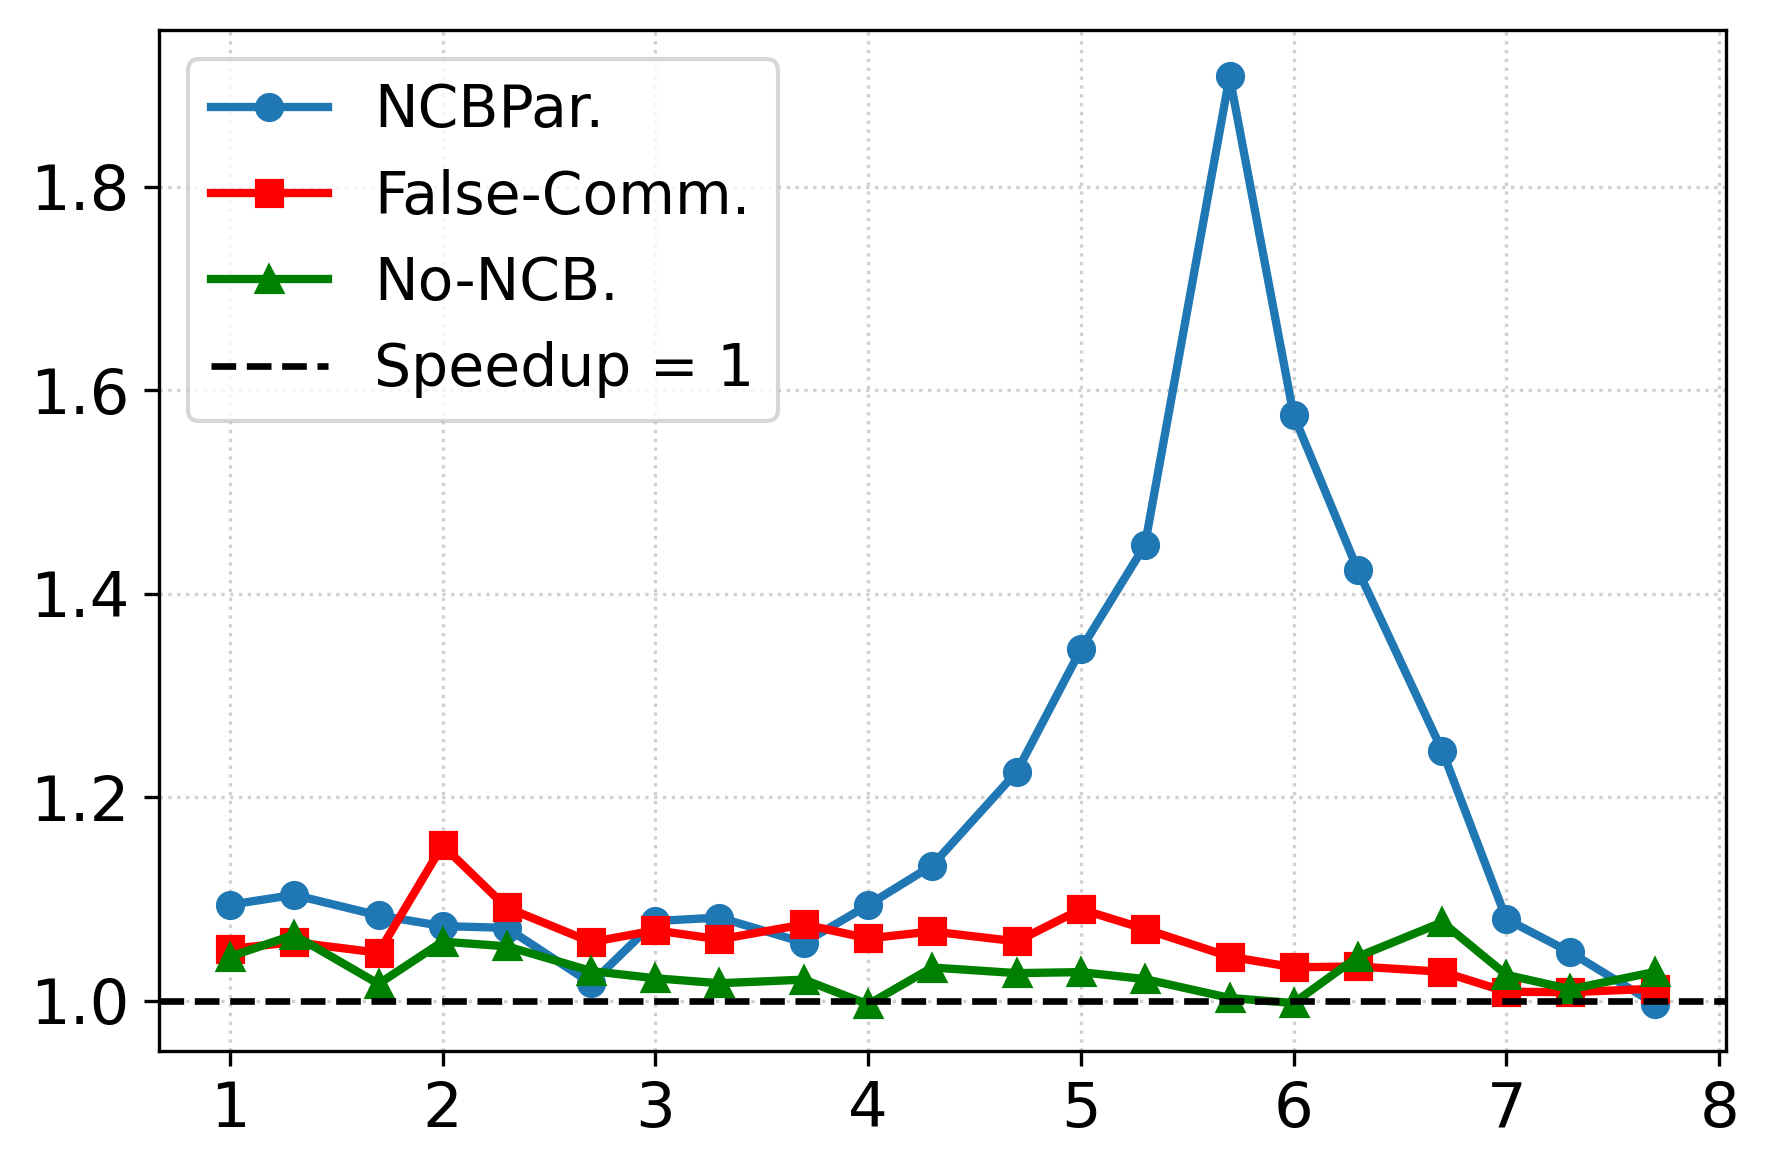
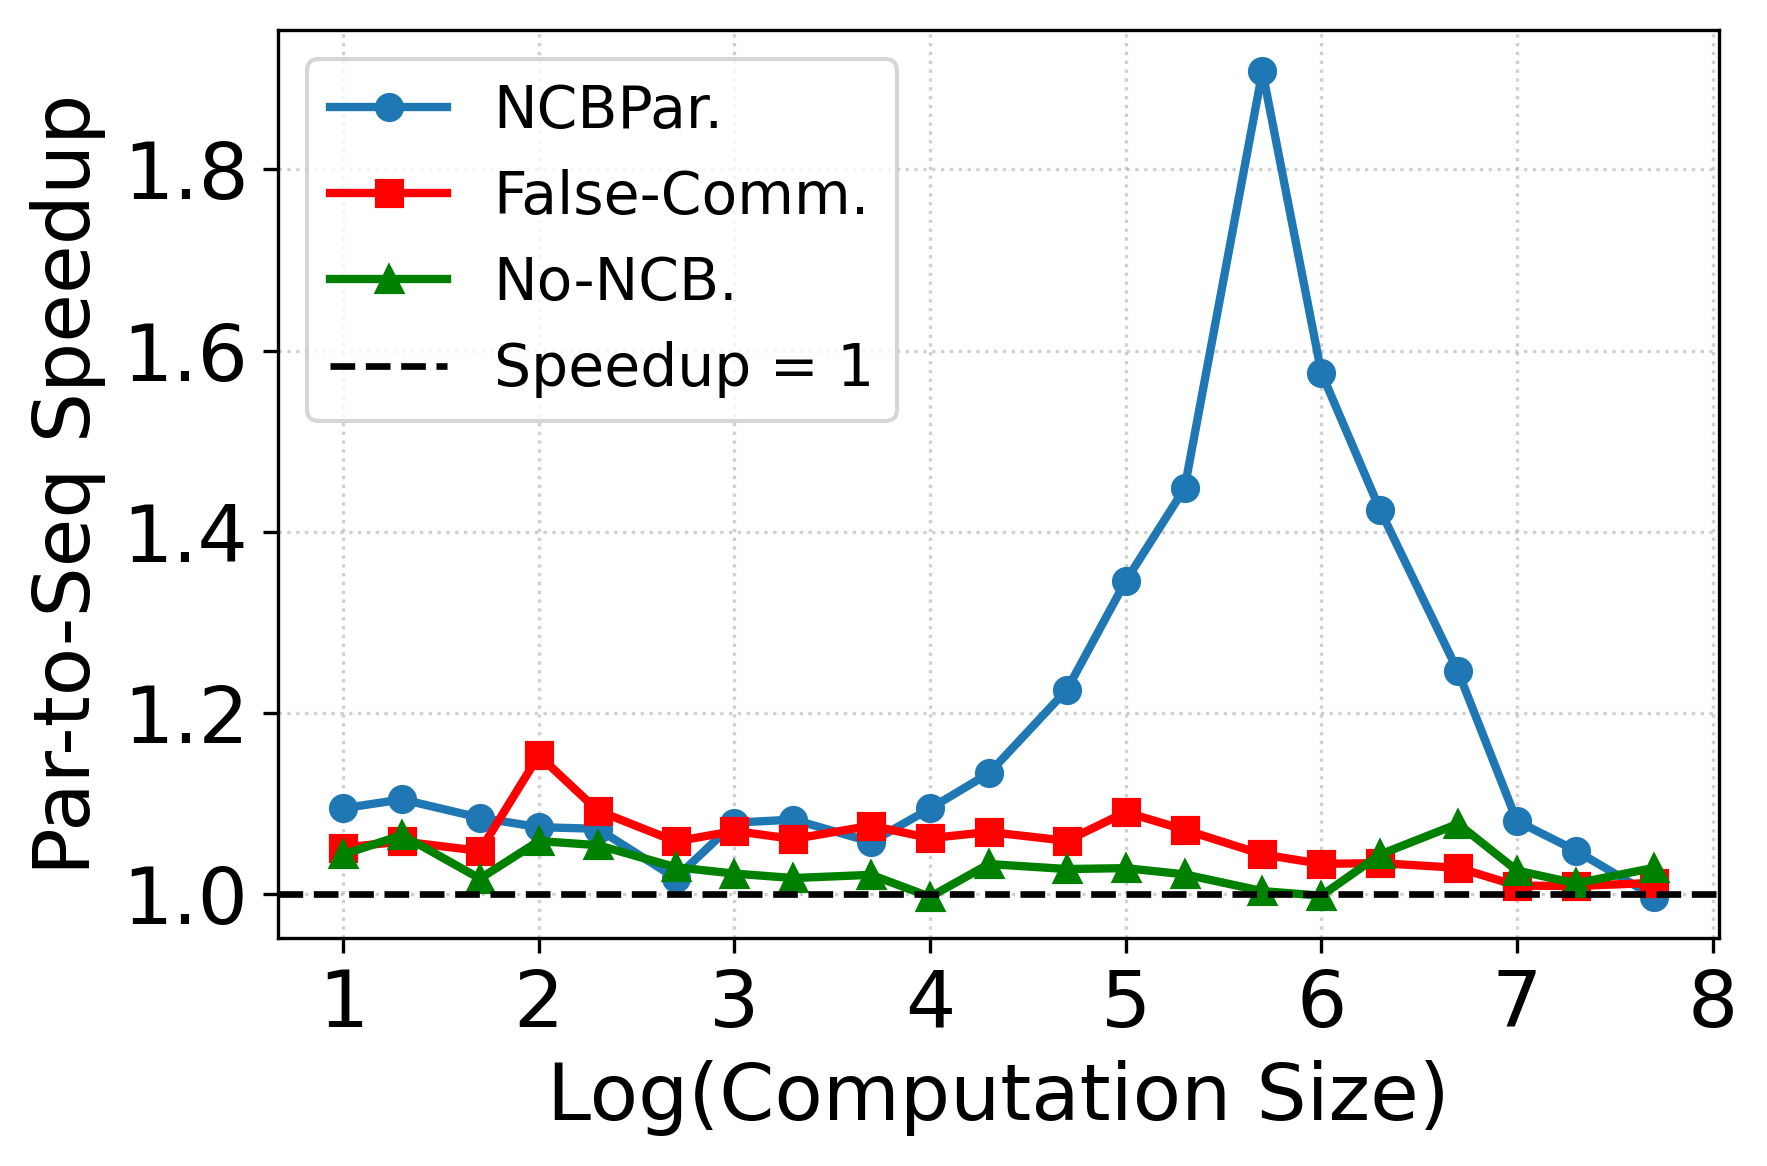
update plots

diff --git a/reports/speedup_plot_compare.py b/reports/speedup_plot_compare.py
@@ -31,11 +31,11 @@ def create_comparison_plot(data_commute, data_no_commute, data_no_NB, benchmark,
     plt.axhline(y=1, color='black', linestyle='--', 
                 label='Speedup = 1', linewidth=1.6)
 
-    # plt.xlabel('Log(Computation Size)', fontsize=12)
-    # plt.ylabel('Par-to-Seq Speedup', fontsize=12)
+    plt.xlabel('Log(Computation Size)', fontsize=19)
+    plt.ylabel('Par-to-Seq Speedup', fontsize=19)
 
-    plt.xticks(fontsize=15)
-    plt.yticks(fontsize=15)
+    plt.xticks(fontsize=19)
+    plt.yticks(fontsize=19)
     
     # benchmark_name = benchmark.replace('vote-run', 'Vote').title()
     # benchmark_name = benchmark_name.replace('2D-Array', 'PS-DSWP-Array')
